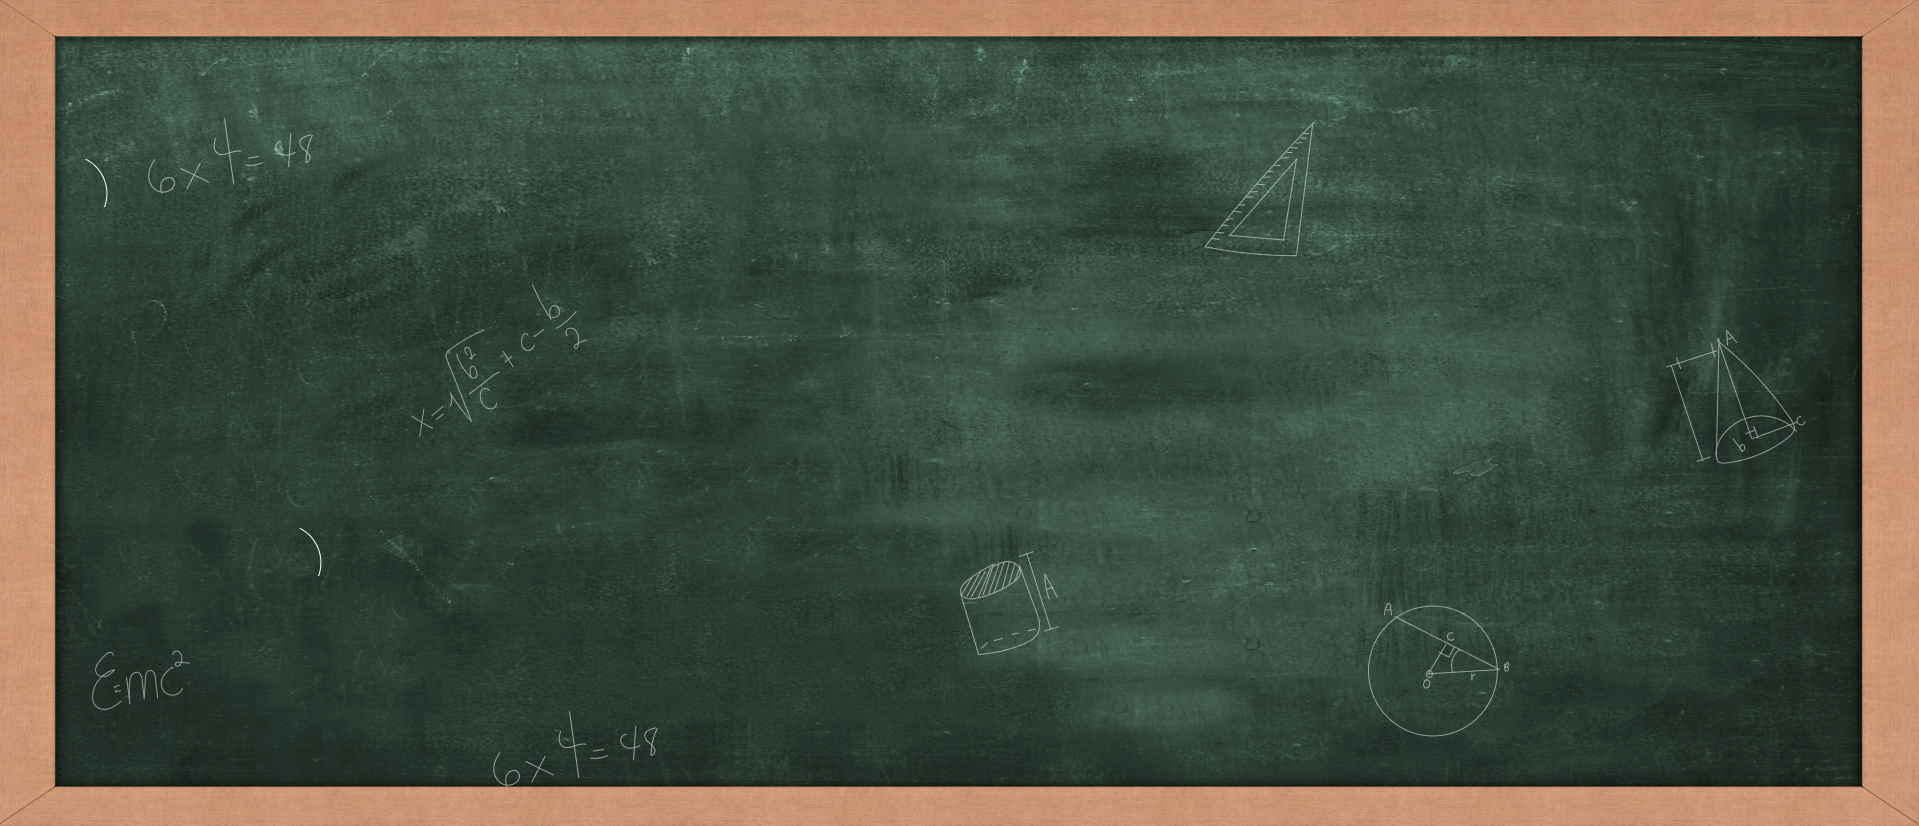
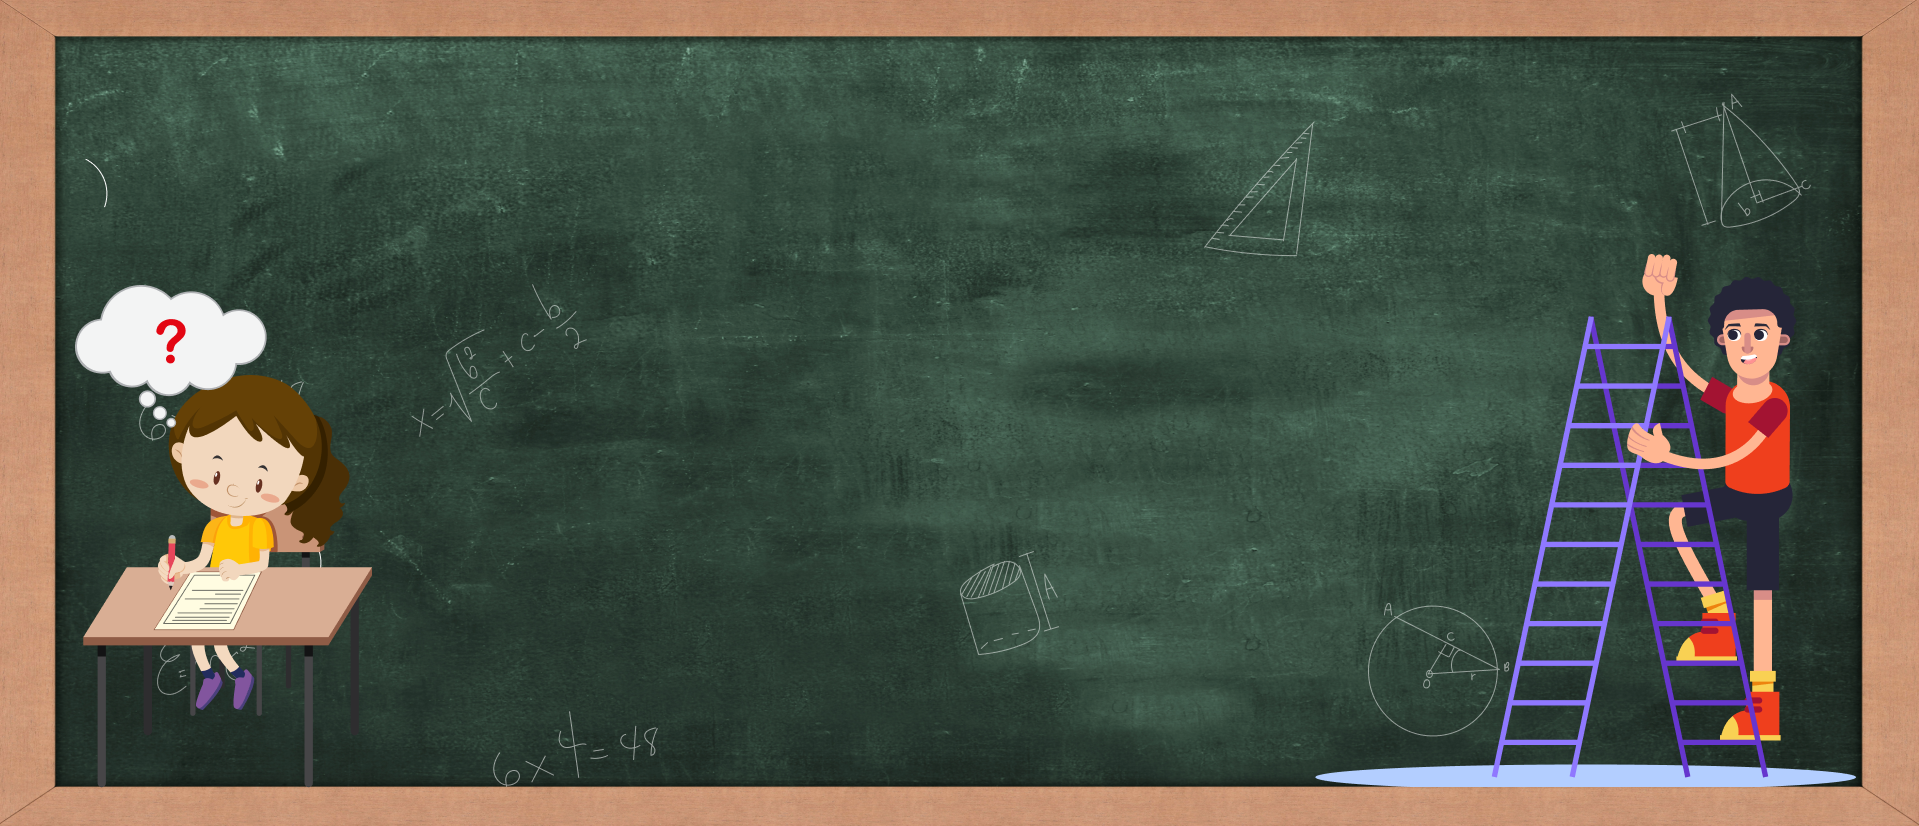
Add files via upload

diff --git a/match.css b/match.css
@@ -7,7 +7,7 @@
     
 }
 body{
-  background-image: url("Frame2.png");
+  background-image: url("Frame\ 3.png");
    background-repeat: no-repeat;
     background-attachment: fixed;
     background-position: center;

diff --git a/fb.css b/fb.css
@@ -7,7 +7,7 @@
     
 }
 body{
-  background-image: url("Frame2.png");
+  background-image: url("Frame4.png");
    background-repeat: no-repeat;
     background-attachment: fixed;
     background-position: center;
